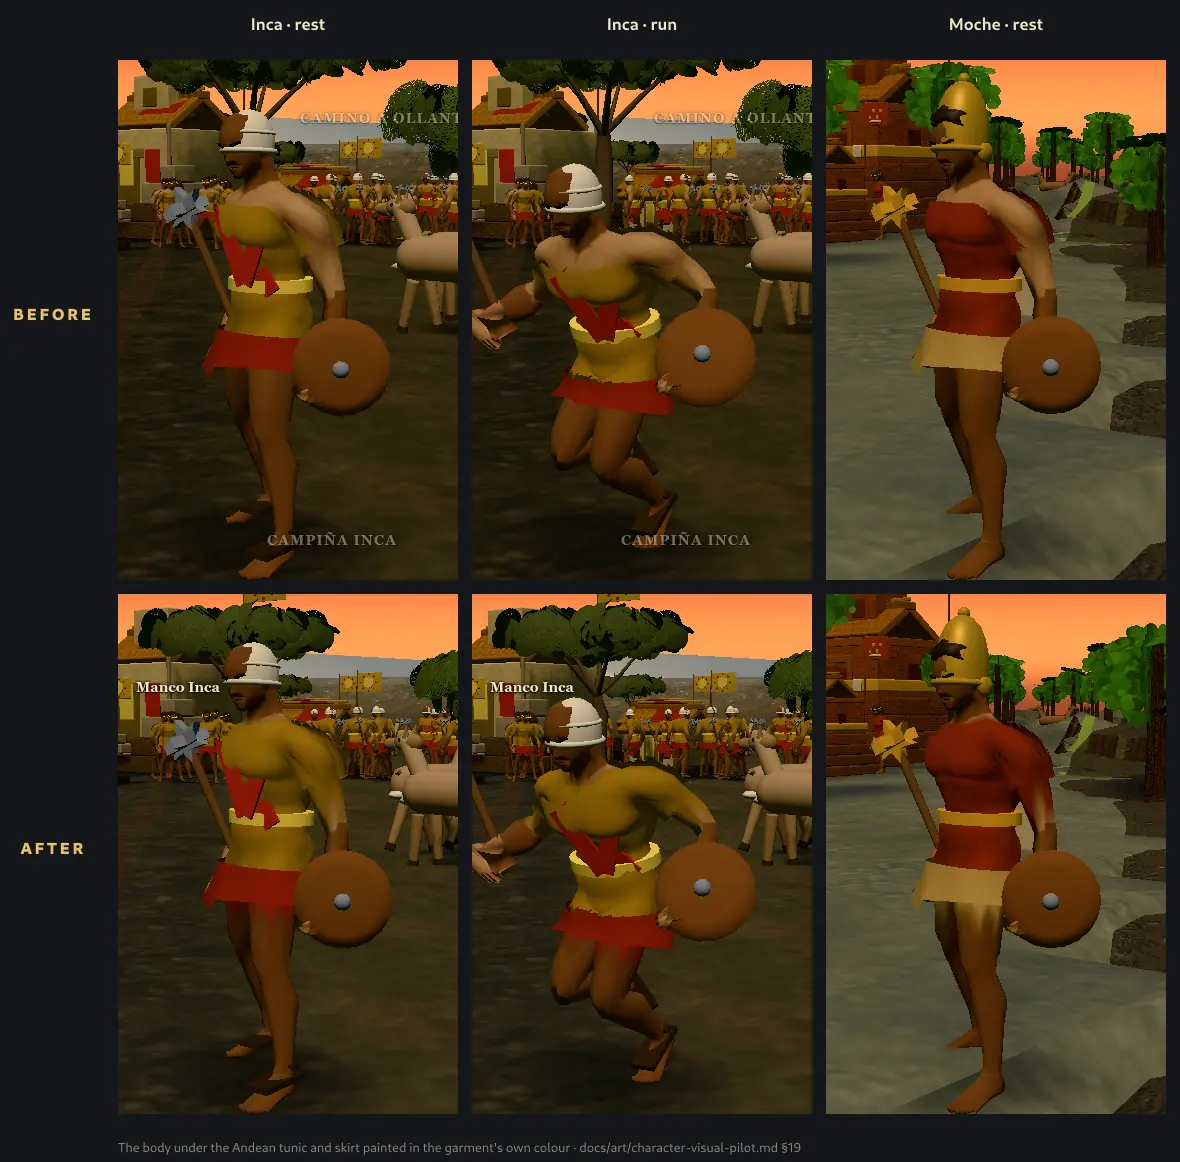
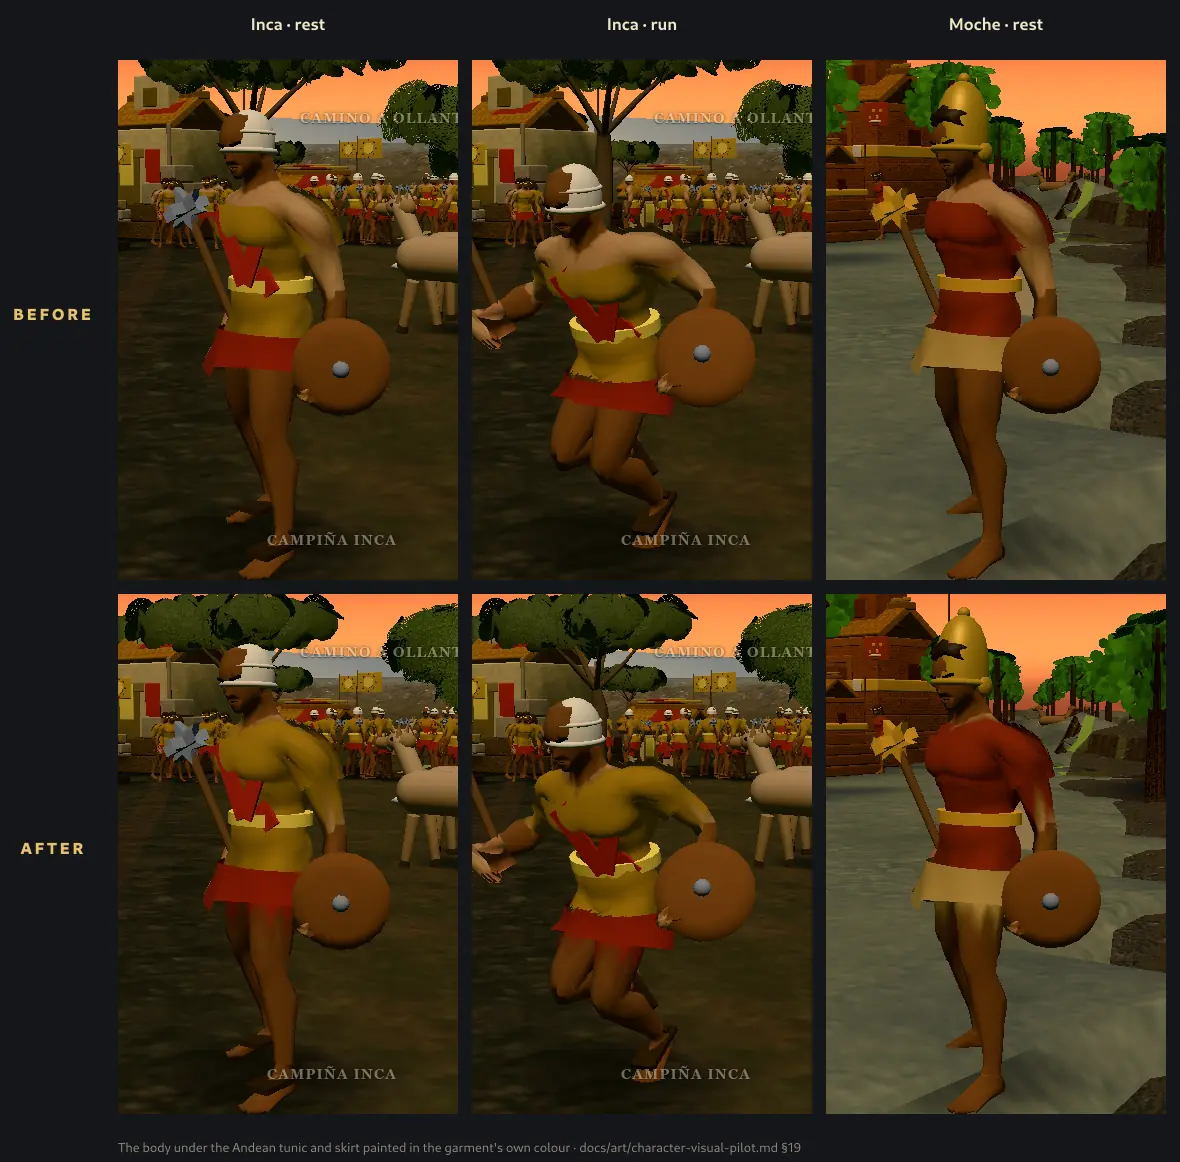
fix(characters): gate the tunic paint on the dominant bone
A hip vertex whose strongest weight was the pelvis but whose skirt volume it
sat outside could still be painted from a spine weight, leaving a gold patch at
the hip/back (caught by the new skirt/wrap test). The Andean paint now uses the
vertex's overall dominant bone, so an uncovered hip stays skin while the chest,
shoulder and sleeve still classify through their own bones.

Tests also pin the normal skirt/wrap colours, the shoulder, a thigh vertex
below the hero's wrap (the long-uncu branch) and the pattern-map approximation.
The after capture and the evidence sheet are regenerated.

diff --git a/tests/andean-tunic-paint.test.ts b/tests/andean-tunic-paint.test.ts
@@ -116,6 +116,12 @@ describe('Andean tunic body paint', () => {
           : min,
       );
       expect(paintAlpha(body, knee)).toBe(0);
+      // The #630 captures showed the shoulder: the clavicle/upper-arm vertices under the short sleeve are
+      // painted, not left as skin.
+      const shoulders = bones
+        .map((bone, index) => (/^(clavicle_[lr]|upperarm_[lr])$/.test(bone) ? index : -1))
+        .filter((index) => index >= 0);
+      expect(shoulders.some((index) => paintAlpha(body, index) === 1)).toBe(true);
       // The neck and the shoulder top sit at the tunic's clipped boundary; the covered torso must dominate.
       expect(torso).toBeGreaterThan(20);
       expect(painted).toBeGreaterThan(torso * 0.75);
@@ -172,6 +178,7 @@ describe('Andean tunic body paint', () => {
       'wari_soldier_m',
       'chimu_soldier_f',
       'inca_soldier_f',
+      'moche_soldier_f',
     ] as const) {
       const rig = acquireRig('caral_worker', variant)!;
       try {
@@ -191,21 +198,64 @@ describe('Andean tunic body paint', () => {
     try {
       const body = bodyOf(rig);
       const bones = dominantBones(body);
-      expect(bones.some((bone, index) => bone === 'thigh_l' && paintAlpha(body, index) === 1)).toBe(true);
-      const tunicTint = (rig.root.getObjectByName('attire_tunic_m') as THREE.Mesh)
-        .material as THREE.MeshStandardMaterial;
+      const wrap = rig.root.getObjectByName('attire_wrap_m') as THREE.SkinnedMesh;
+      const wrapBottom = posedMinY(wrap);
+      const point = new THREE.Vector3();
+      // The wrap covers the upper thigh; a painted tunic-coloured thigh vertex below it can only come from
+      // the hero's longer uncu (the `longTunic` branch).
+      const belowWrap = bones
+        .map((bone, index) => (bone === 'thigh_l' ? index : -1))
+        .filter((index) => index >= 0)
+        .find((index) => {
+          body.getVertexPosition(index, point).applyMatrix4(body.matrixWorld);
+          return point.y < wrapBottom + 0.01 && paintAlpha(body, index) === 1;
+        });
+      const tunic = (rig.root.getObjectByName('attire_tunic_m') as THREE.Mesh).material as THREE.MeshStandardMaterial;
+      expect(belowWrap).toBeDefined();
+      expectColor(paintColor(body, belowWrap!), new THREE.Color(COTTON_WEAVE).multiply(tunic.color));
       rig.setClothColors(0xd04020);
       const index = spineVertex(body);
       expect(paintAlpha(body, index)).toBe(1);
       expectColor(
         paintColor(body, index),
-        new THREE.Color(COTTON_WEAVE).multiply(tunicTint.color).multiply(new THREE.Color(0xd04020)),
+        new THREE.Color(COTTON_WEAVE).multiply(tunic.color).multiply(new THREE.Color(0xd04020)),
       );
     } finally {
       rig.dispose();
     }
   });
+
+  it('paints the normal skirt and wrap in their own colour', () => {
+    for (const [variant, male, garment] of [
+      ['inca_soldier_f', false, 'attire_skirt_f'],
+      ['moche_soldier_m', true, 'attire_wrap_m'],
+    ] as const) {
+      const rig = acquireRig('caral_worker', variant)!;
+      try {
+        const body = bodyOf(rig, male);
+        const pelvis = dominantBones(body)
+          .map((bone, index) => (bone === 'pelvis' ? index : -1))
+          .filter((index) => index >= 0);
+        const painted = pelvis.find((index) => paintAlpha(body, index) === 1);
+        expect(painted, variant).toBeDefined();
+        expectColor(paintColor(body, painted!), clothColor(rig, garment));
+      } finally {
+        rig.dispose();
+      }
+    }
+  });
 });
+
+function posedMinY(mesh: THREE.SkinnedMesh): number {
+  const point = new THREE.Vector3();
+  let min = Infinity;
+  const position = mesh.geometry.getAttribute('position');
+  for (let i = 0; i < position.count; i++) {
+    mesh.getVertexPosition(i, point).applyMatrix4(mesh.matrixWorld);
+    min = Math.min(min, point.y);
+  }
+  return min;
+}
 
 function spineVertex(body: THREE.SkinnedMesh): number {
   const index = dominantBones(body).findIndex((bone) => bone === 'spine_02' || bone === 'spine_01');

diff --git a/src/rendering/bodyPaint.ts b/src/rendering/bodyPaint.ts
@@ -22,6 +22,15 @@ export interface BodyPaintHandle<R extends string = string> {
   setColors(colors: Record<R, number>): void;
 }
 
+export interface BodyPaintOptions {
+  /**
+   * Classify by the vertex's overall dominant bone instead of the strongest *covered* bone. The Andean
+   * shells use it: a hip vertex that the skirt does not cover must stay skin even when a spine weight would
+   * otherwise pull it into the tunic's box.
+   */
+  dominant?: boolean;
+}
+
 const geometryCache = new Map<string, THREE.BufferGeometry>();
 const materialCache = new WeakMap<THREE.Material, THREE.Material>();
 const sourceGeometries = new WeakMap<THREE.SkinnedMesh, THREE.BufferGeometry>();
@@ -83,6 +92,7 @@ export function paintBodyUnderGarments<R extends string>(
   key: string,
   colors: Record<R, number>,
   regionOf: (bone: string, position: THREE.Vector3) => R | null,
+  options: BodyPaintOptions = {},
 ): BodyPaintHandle<R> {
   const source = originalGeometry(body);
   const cacheKey = `${source.uuid}|${key}|${colorKey(colors)}`;
@@ -101,25 +111,39 @@ export function paintBodyUnderGarments<R extends string>(
     body.skeleton.update();
     const position = new THREE.Vector3();
     for (let i = 0; i < count; i++) {
-      // Strongest bone among those that carry a garment.
       let best: R | null = null;
-      let bestWeight = 0;
-      let covered = 0;
       body.getVertexPosition(i, position).applyMatrix4(body.matrixWorld);
-      for (let k = 0; k < 4; k++) {
-        const weight = skinWeight.getComponent(i, k);
-        if (weight <= 0) continue;
-        const bone = bones[skinIndex.getComponent(i, k)]?.name ?? '';
-        const region = regionOf(bone, position);
-        if (!region) continue;
-        covered += weight;
-        if (weight > bestWeight) {
-          bestWeight = weight;
-          best = region;
+      if (options.dominant) {
+        let strongest = -1;
+        let bestWeight = 0;
+        for (let k = 0; k < 4; k++) {
+          const weight = skinWeight.getComponent(i, k);
+          if (weight > bestWeight) {
+            bestWeight = weight;
+            strongest = skinIndex.getComponent(i, k);
+          }
         }
+        best = regionOf(bones[strongest]?.name ?? '', position);
+      } else {
+        // Strongest bone among those that carry a garment.
+        let bestWeight = 0;
+        let covered = 0;
+        for (let k = 0; k < 4; k++) {
+          const weight = skinWeight.getComponent(i, k);
+          if (weight <= 0) continue;
+          const bone = bones[skinIndex.getComponent(i, k)]?.name ?? '';
+          const region = regionOf(bone, position);
+          if (!region) continue;
+          covered += weight;
+          if (weight > bestWeight) {
+            bestWeight = weight;
+            best = region;
+          }
+        }
+        // A vertex mostly on an uncovered bone (neck, hand, head) stays skin.
+        if (!best || covered < 0.5) continue;
       }
-      // A vertex mostly on an uncovered bone (neck, hand, head) stays skin.
-      if (!best || covered < 0.5) continue;
+      if (!best) continue;
       const c = linear[best];
       paint.set([c.r, c.g, c.b, 1], i * 4);
     }
@@ -137,7 +161,7 @@ export function paintBodyUnderGarments<R extends string>(
   body.material = Array.isArray(material) ? material.map(paintedMaterial) : paintedMaterial(material);
   return {
     setColors(next: Record<R, number>): void {
-      paintBodyUnderGarments(body, key, next, regionOf);
+      paintBodyUnderGarments(body, key, next, regionOf, options);
     },
   };
 }

diff --git a/src/rendering/workerAttire.ts b/src/rendering/workerAttire.ts
@@ -795,6 +795,7 @@ export function dressCaralWorker(rig: RigInstance, variant: RigVariant = 'caral_
       `andean:${variant}`,
       { tunic: tintedCotton(tunicTint), skirt: tintedCotton(skirtTint) },
       regionOf,
+      { dominant: true },
     );
   };
 

diff --git a/docs/art/character-visual-pilot.md b/docs/art/character-visual-pilot.md
@@ -594,6 +594,8 @@ character/rig E2E specs are the gate.
 
 **Still open.** The paint hides the skin, but the tunic geometry is still a tight shell; a pose that stretches
 it further can still read as a bulge. A wider offset or a longer sleeve is an asset change, not a dresser one.
+The hero's checked pattern map replaces the weave, so the body under it keeps the weave mean: a flat
+approximation for a patterned uncu.
 
 ![Andean tunics before and after: skin patches through the Inca and Moche cloth, then the body painted in the garment's own colour](../media/character-tunic-before-after.webp)
 
